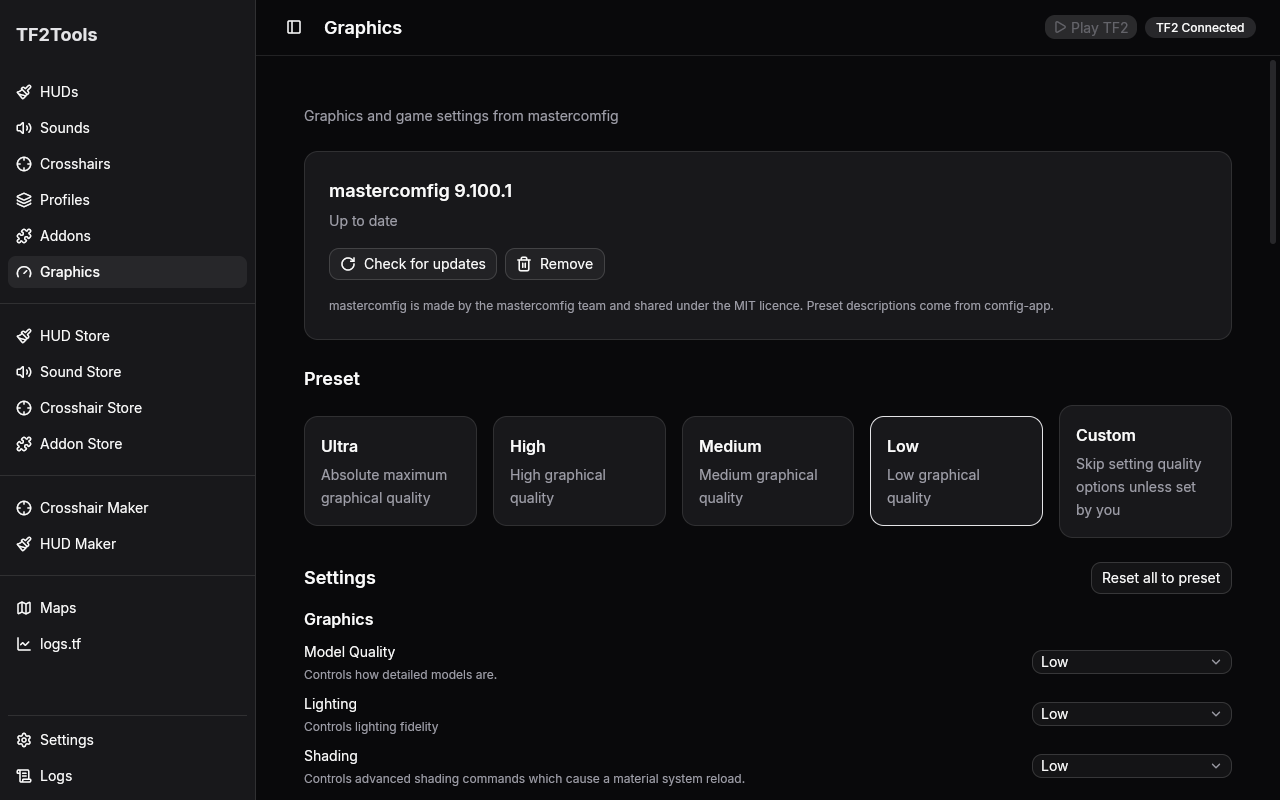
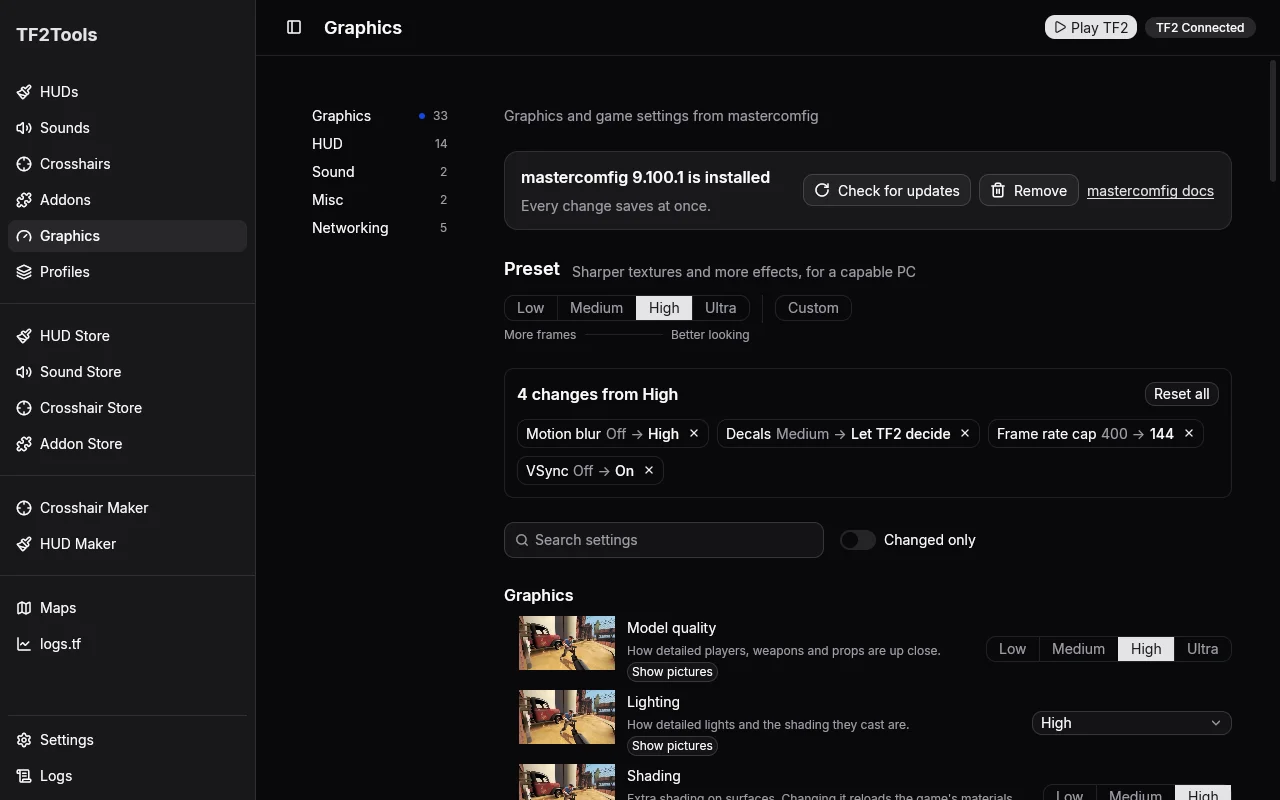
fix(graphics): name the preset once when your pick matches it
The single-picture label read "High, as High: High". It now reads "High (same as High)" in all 7 languages, with ru and fr naming the preset in a grammatical phrase. The README's Graphics paragraph, alt text and screenshot now show the redesigned page.

diff --git a/crates/tf2tools-app/src/pages/graphics/view.rs b/crates/tf2tools-app/src/pages/graphics/view.rs
@@ -54,6 +54,8 @@ pub struct RowView {
     pub changed: bool,
     /// "Preset: value", naming what the preset would set.
     pub preset_text: SharedString,
+    /// The preset's own name, for labels that already show the value.
+    pub preset_name: SharedString,
     /// A Select's entries start with NotSet; switches and segments offer only values.
     pub options: Vec<ChoiceView>,
 }
@@ -68,9 +70,10 @@ pub fn row(catalog: &ModuleCatalog, choices: &Choices, module: &ComfigModule) ->
     let changed = choices
         .get(name)
         .is_some_and(|saved| *saved != preset_value);
+    let preset_name = preset_label(choices.preset());
     let preset_text = tr!(
         "graphics.row.preset_value",
-        preset = preset_label(choices.preset()),
+        preset = preset_name.clone(),
         value = choice_label(module, &preset_value)
     );
     let unset = (kind == ControlKind::Select).then_some(ModuleChoice::NotSet);
@@ -96,6 +99,7 @@ pub fn row(catalog: &ModuleCatalog, choices: &Choices, module: &ComfigModule) ->
         preset_value,
         changed,
         preset_text,
+        preset_name,
         options,
     }
 }

diff --git a/crates/tf2tools-app/tests/graphics_pictures.rs b/crates/tf2tools-app/tests/graphics_pictures.rs
@@ -111,7 +111,7 @@ fn the_preset_s_own_value_shows_one_picture_and_the_strip_tags_it() {
         lod.compare,
         Compare::Same {
             picture: dir.join("lod/medium.webp"),
-            pill: "Medium, as Medium: Medium".into()
+            pill: "Medium (same as Medium)".into()
         }
     );
     let strip: Vec<(&str, &str, bool, bool)> = lod
@@ -164,7 +164,7 @@ fn a_changed_value_wipes_between_the_preset_s_picture_and_yours() {
         decals.compare,
         Compare::Same {
             picture: dir.join("decals/low.webp"),
-            pill: "Low, as Medium: Low".into()
+            pill: "Low (same as Medium)".into()
         },
         "a module without crops stays whole under zoom"
     );

diff --git a/crates/tf2tools-app/tests/graphics_compare.rs b/crates/tf2tools-app/tests/graphics_compare.rs
@@ -110,7 +110,7 @@ fn the_preset_s_value_shows_one_picture_without_a_slider(cx: &mut TestAppContext
     toggle_pictures(cx, &s, "lod");
     assert_eq!(
         label(cx, &s, ids::graphics_compare_pill("lod", "same")).as_deref(),
-        Some("Medium, as Medium: Medium")
+        Some("Medium (same as Medium)")
     );
     for gone in [
         ids::graphics_compare_slider("lod"),

diff --git a/crates/tf2tools-app/src/pages/graphics/pictures.rs b/crates/tf2tools-app/src/pages/graphics/pictures.rs
@@ -168,7 +168,7 @@ pub fn row_pictures(index: &PictureIndex, row: &RowView, zoom: bool) -> Option<R
             pill: tr!(
                 "graphics.pictures.same",
                 value = label(&row.shown),
-                preset = row.preset_text
+                preset = row.preset_name
             ),
         },
         (Some(preset), Some(yours)) => Compare::Wipe {

diff --git a/README.md b/README.md
@@ -38,9 +38,9 @@ Install mastercomfig's addons from the Addon Store. The Addons page shows what y
 
 ### Graphics
 
-The Graphics page sets TF2's graphics with mastercomfig. Install mastercomfig in one click, update it when a new version is out, or let TF2Tools take over the copy you already have. Pick a preset from Low to Ultra, then change any setting with a switch, a few buttons or a list. Pictures show what each value looks like, with a slider to compare the preset's look with yours. A strip at the top lists what you changed, search finds any setting, and every change saves at once and applies the next time TF2 starts.
+The Graphics page sets TF2's graphics with mastercomfig. Install mastercomfig in one click, update it when a new version is out, or let TF2Tools take over the copy you already have. Pick a preset on a scale from more frames to better looking, then change any setting with a switch, a few buttons or a list. A strip at the top shows how many changes you made from your preset and undoes any of them in one click. Search finds any setting, and a filter shows only the ones you changed. Pictures show what each value looks like, with a slider to compare the preset's look with yours and a zoom on the details. Every change saves at once and applies the next time TF2 starts.
 
-![The Graphics page: mastercomfig's status, the graphics presets and the settings below](.github/readme/graphics.webp)
+![The Graphics page: the mastercomfig status row, the preset scale, the strip of changes from the High preset, and the settings with their pictures](.github/readme/graphics.webp)
 
 ### The stores
 
